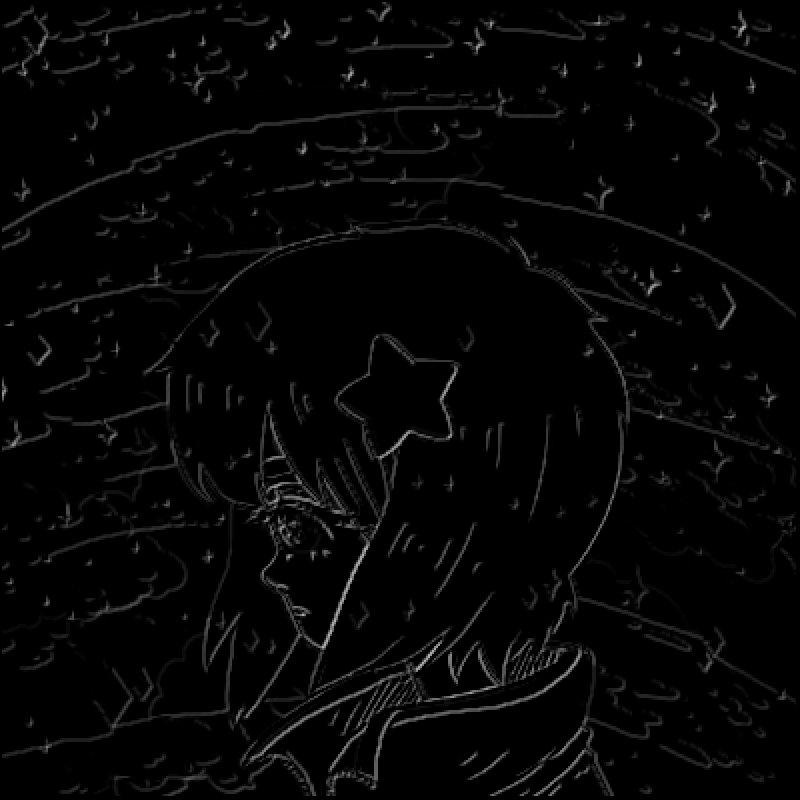
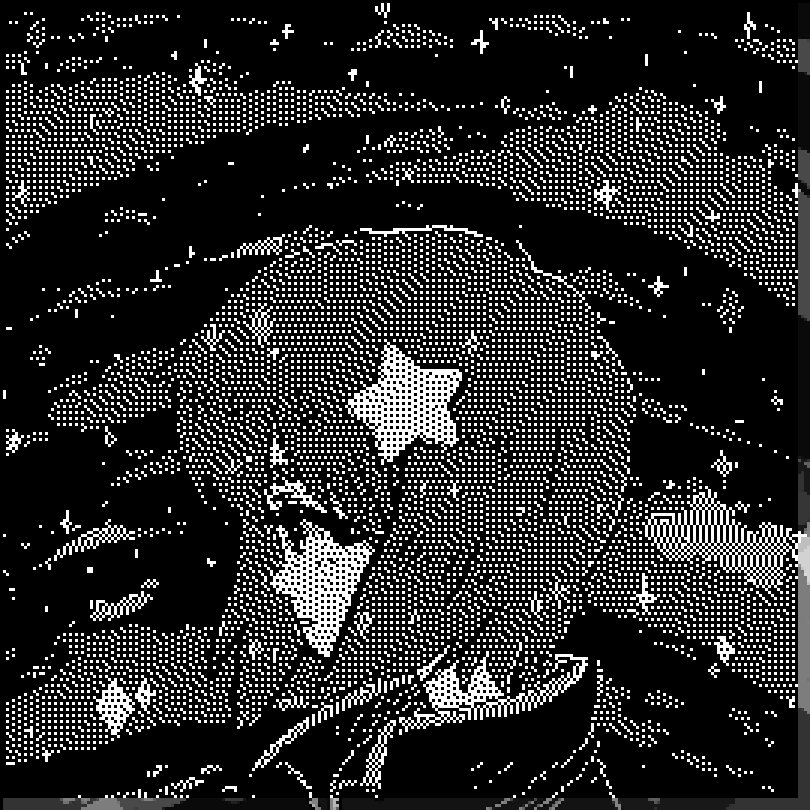
Added Floyd-Steinberg Dithering

diff --git a/dither.py b/dither.py
@@ -1,3 +1,4 @@
+import random
 import pygame
 import pygame.camera
 import math
@@ -6,11 +7,11 @@ import numpy.linalg
 
 image = pygame.image.load("images/Ramona.png")
 image = pygame.transform.scale(image,(800,800))
-width = image.get_width()
-height = image.get_height()
+width = image.get_width()+10
+height = image.get_height()+10
 
 
-pixel_size = 8
+pixel_size = 3
 
 
 pygame.init()
@@ -24,6 +25,7 @@ cam = None
 if cam_list:
     cam = pygame.camera.Camera(cam_list[0], (width, height))
     cam.start()
+cam = None
 
 image = pygame.transform.scale(image, (width,height))
 screen.blit(image,(0,0))
@@ -35,7 +37,7 @@ vertical_kernal = numpy.matrix('1,2,1; 0,0,0; -1,-2,-1')
 test_matrix = numpy.matrix('0,50,50;0,0,50;0,0,60')
 
 def get_val(pixel):
-    val = (pixel[0]+pixel[1]+pixel[2])/3 # Returns pixel brightness
+    val = (0.299*pixel[0]+0.587*pixel[1]+0.114*pixel[2]) # Returns pixel brightness
     return val 
 
 def create_image_matrix(image):
@@ -48,27 +50,15 @@ def create_image_matrix(image):
             image_matrix[i][j] = get_val(pixel)
     return image_matrix
 
-def convolve(frame,kernal):
-    value = 0
-    for j in range (0,3):
-        for i in range (0,3):
-            value += frame[i,j]*kernal[i,j]
-    value = value /4
-    return min(255,max(0,value))
-
-
-def find_edges(image_matrix, hor_kernal, vert_kernal): # assuming all kernals are 3x3
+def grayscale(image_matrix, bits = 1):
     rows = image_matrix.shape[0]-2
     cols = image_matrix.shape[1]-2
-    edge_matrix = numpy.empty((rows,cols))
+    grayed_image = numpy.empty((rows,cols))
     for j in range (1, cols):
         for i in range (1, rows):
-            frame = numpy.empty((3,3))
-            for a in range (-1,2):
-                for b in range (-1,2):
-                    frame[a+1][b+1] = image_matrix[i+a][j+b]
-            edge_matrix[i][j] = (convolve(frame,hor_kernal) + convolve(frame,vert_kernal))/2
-    return edge_matrix
+            grayed_image[i][j] = math.floor(image_matrix[i][j]/(bits))*(bits)
+    return grayed_image
+
 
 
 def matrix_to_screen(matrix):
@@ -84,12 +74,32 @@ def matrix_to_screen(matrix):
             color = max(0,min(255,color))
             pygame.draw.rect(screen,(color,color,color),rect)
 
-def edge_image(image):
-    image_matrix = create_image_matrix(image)
-    edge_matrix = find_edges(image_matrix, horizontal_kernal, vertical_kernal)
-    matrix_to_screen(edge_matrix)
+def dither(image):
+    
+    cols = math.floor((image.get_height())/pixel_size)
+    rows = math.floor((image.get_width())/pixel_size)
+    
+    gray_img = grayscale(create_image_matrix((image)), 64)
+    dithered_image = numpy.empty((rows,cols))
+    for j in range (1, cols-4):
+        for i in range (1, rows-4):
+            oldpixel = gray_img[i][j]
+            newpixel = 0 if oldpixel/255 < 0.5 else 255
+            dithered_image[i][j] = newpixel
+            quant_error = oldpixel - newpixel
+            gray_img[i+1][j] += quant_error*7/16
+            gray_img[i-1][j+1] += quant_error*3/16
+            gray_img[i][j+1] += quant_error*5/16
+            gray_img[i+1][j+1] += quant_error*1/16
+            # dithered_image[i][j] = min(i,j)
+            # if get_val(image_matrix.get_at((i*pixel_size,j*pixel_size))) < 200:
+            #     dithered_image[i][j] = 0
+    return dithered_image
 
-edge_image(image)
+
+
+
+matrix_to_screen(dither(image))
 
 while running:
     for event in pygame.event.get():
@@ -106,8 +116,7 @@ while running:
     if cam is not None: 
         image = cam.get_image()
         image = pygame.transform.scale(image, (width,height))
-
-        edge_image(image)
+        matrix_to_screen(dither(image))
         
     pygame.display.flip()
     clock.tick(60)  

diff --git a/textify.py b/textify.py
@@ -2,11 +2,11 @@ import pygame
 import pygame.camera
 import math
 
-pixel_size = 7
-font_size = 10
-width = 1200
-height = 1000
 
+pixel_size = 16
+font_size = 16
+width = 1200
+height = 800
 pygame.init()
 screen = pygame.display.set_mode((width, height))
 clock = pygame.time.Clock()
